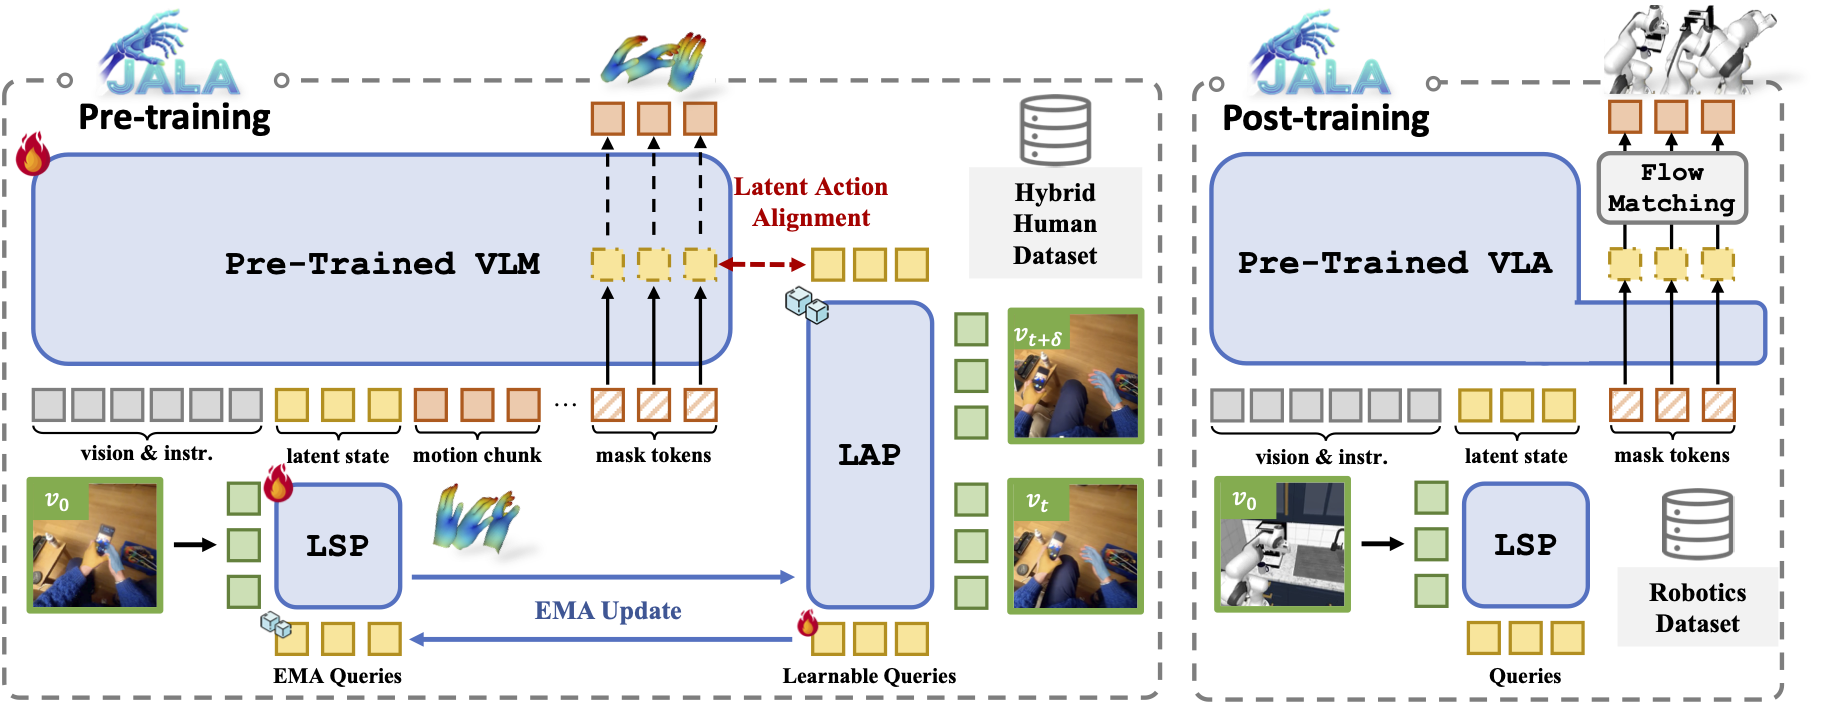
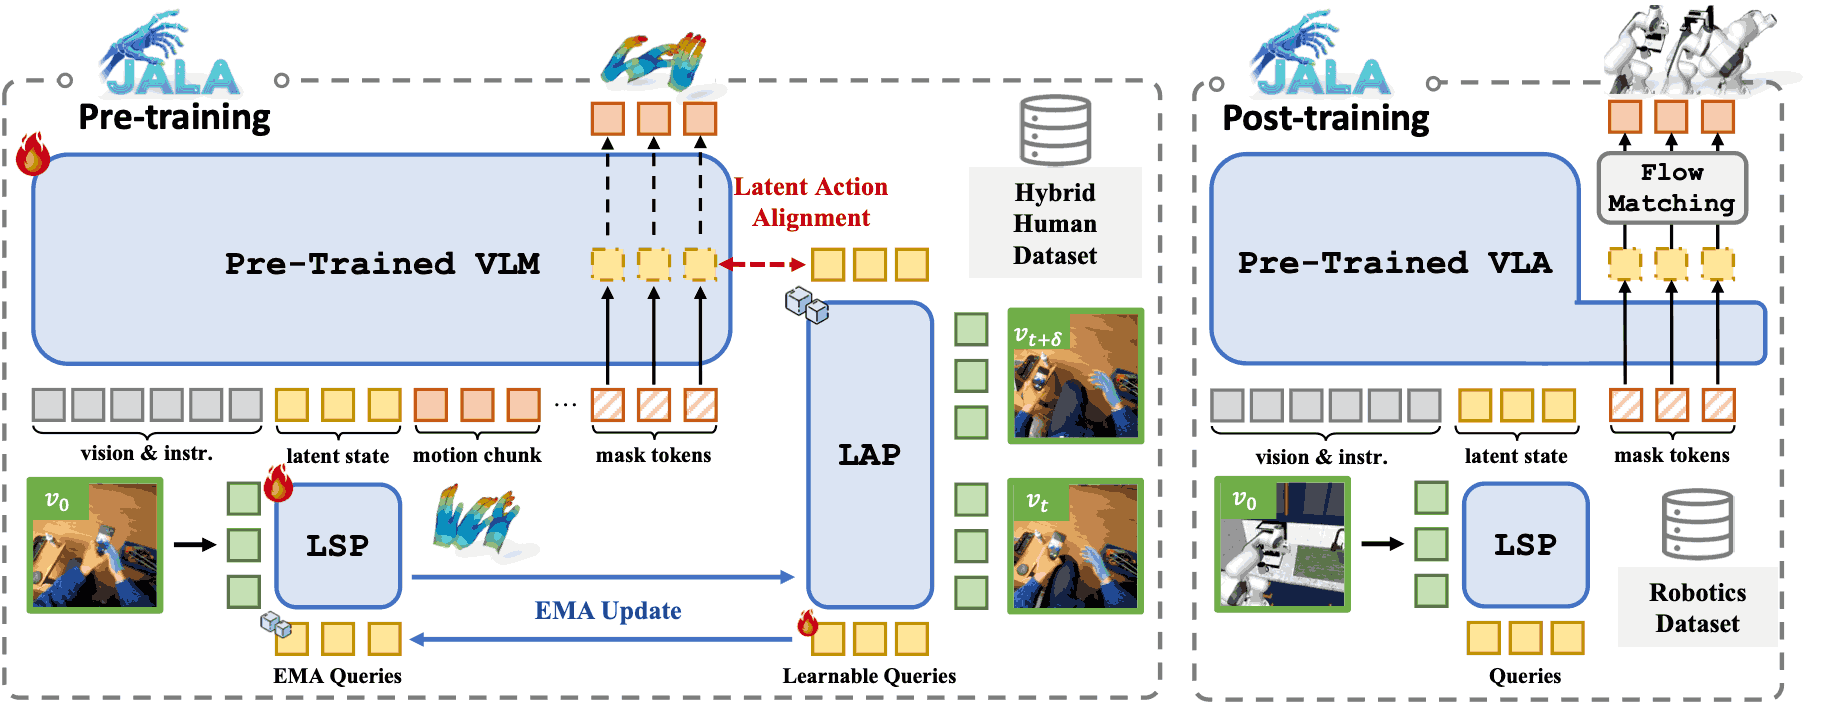
Optimize site images and fix BMVC typo

diff --git a/index.html b/index.html
@@ -341,7 +341,7 @@
       </article>
       <article class="closing-section">
         <h3 class="closing-heading">Reviewer</h3>
-        <p class="closing-body closing-body--wide">ICML, NeurIPS (before 2026), ICLR, CVPR, ICCV, ECCV, BMCV</p>
+        <p class="closing-body closing-body--wide">ICML, NeurIPS (before 2026), ICLR, CVPR, ICCV, ECCV, BMVC</p>
       </article>
       <article class="closing-section">
         <h3 class="closing-heading">Teaching Assistant</h3>
